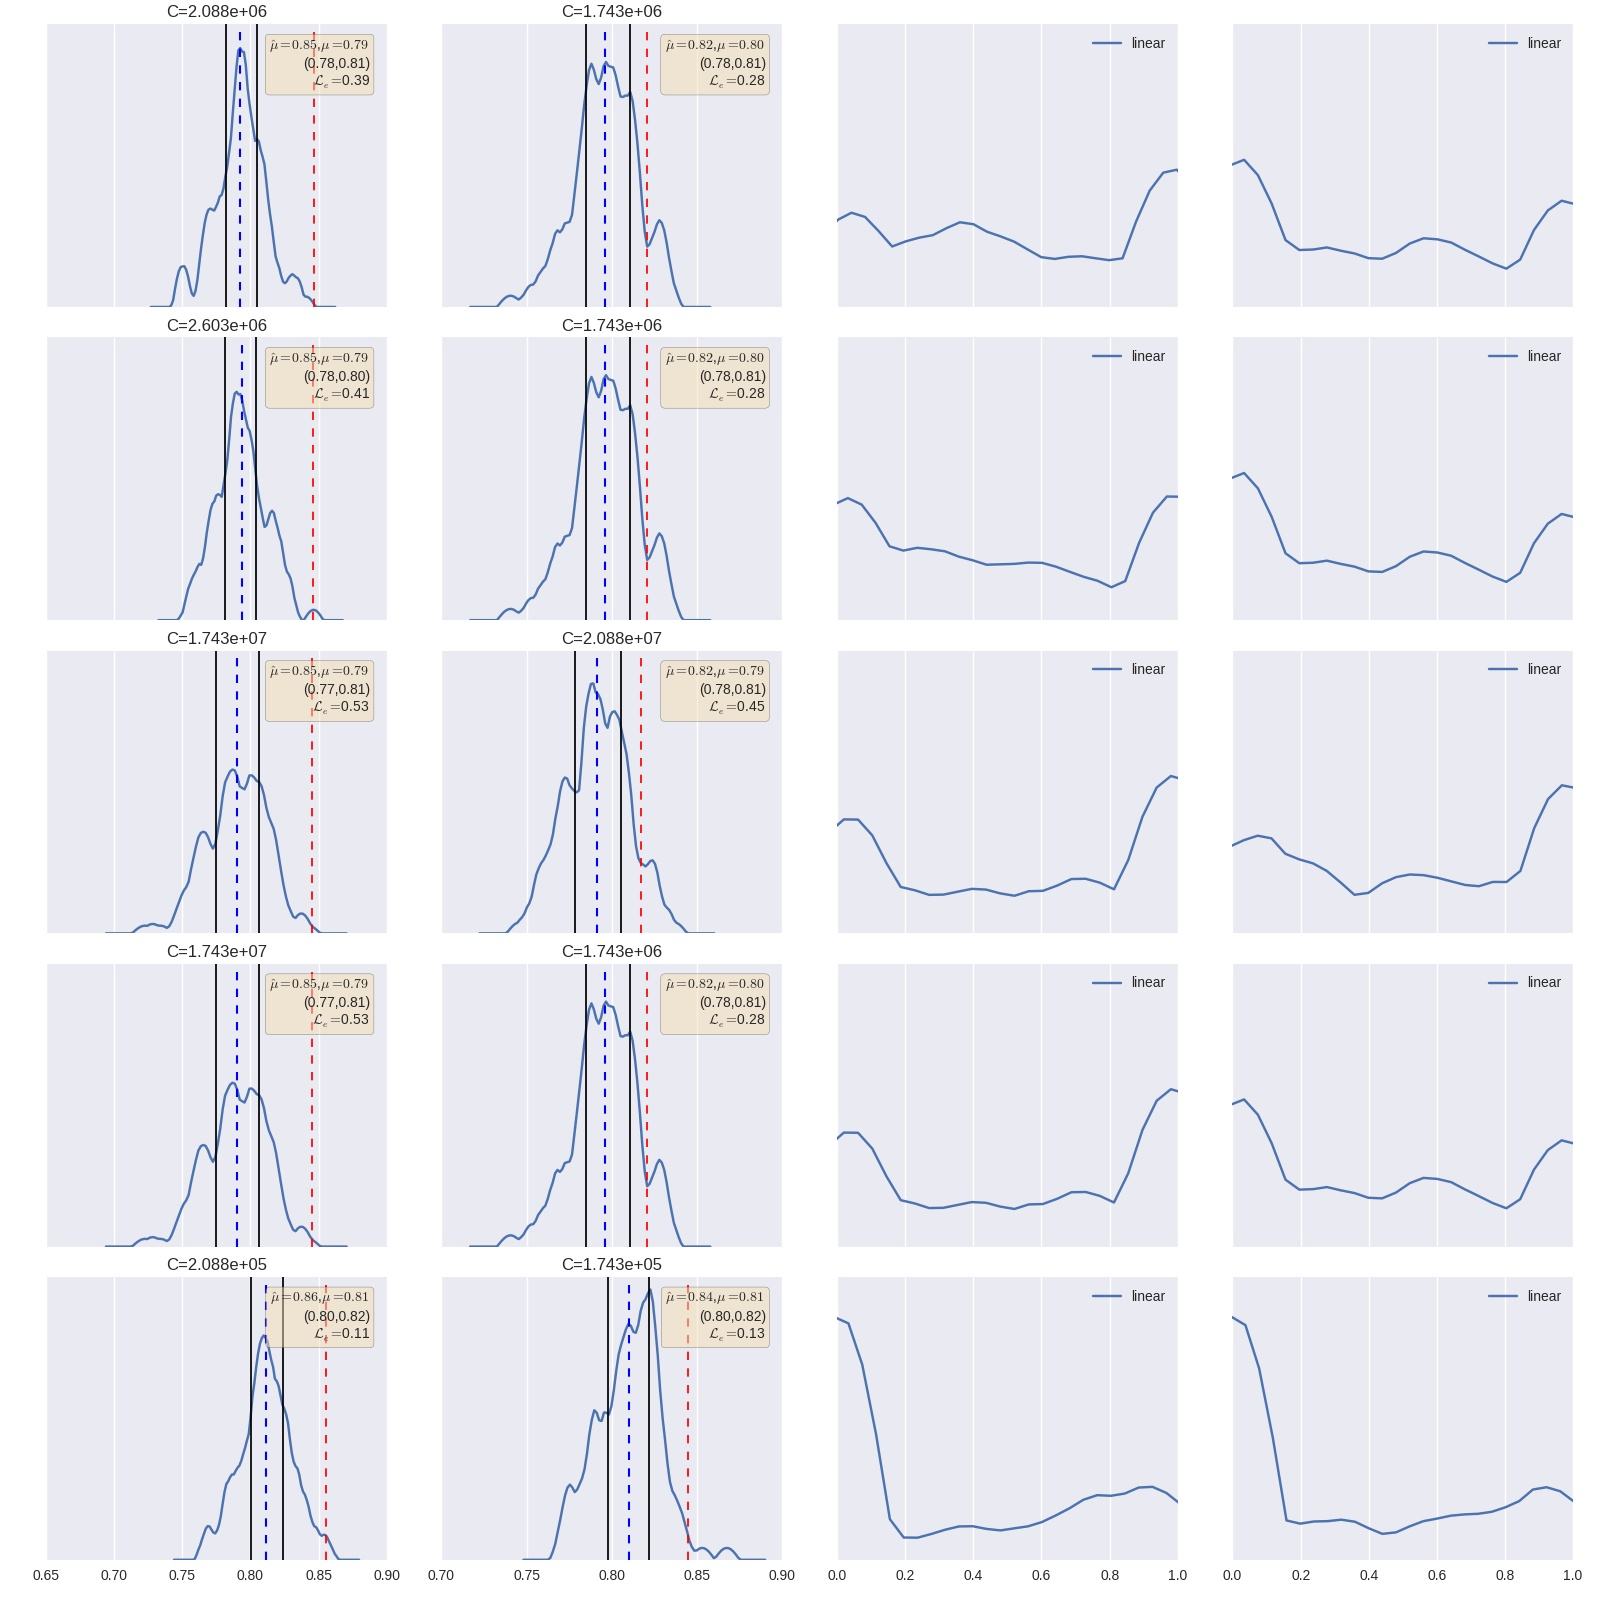
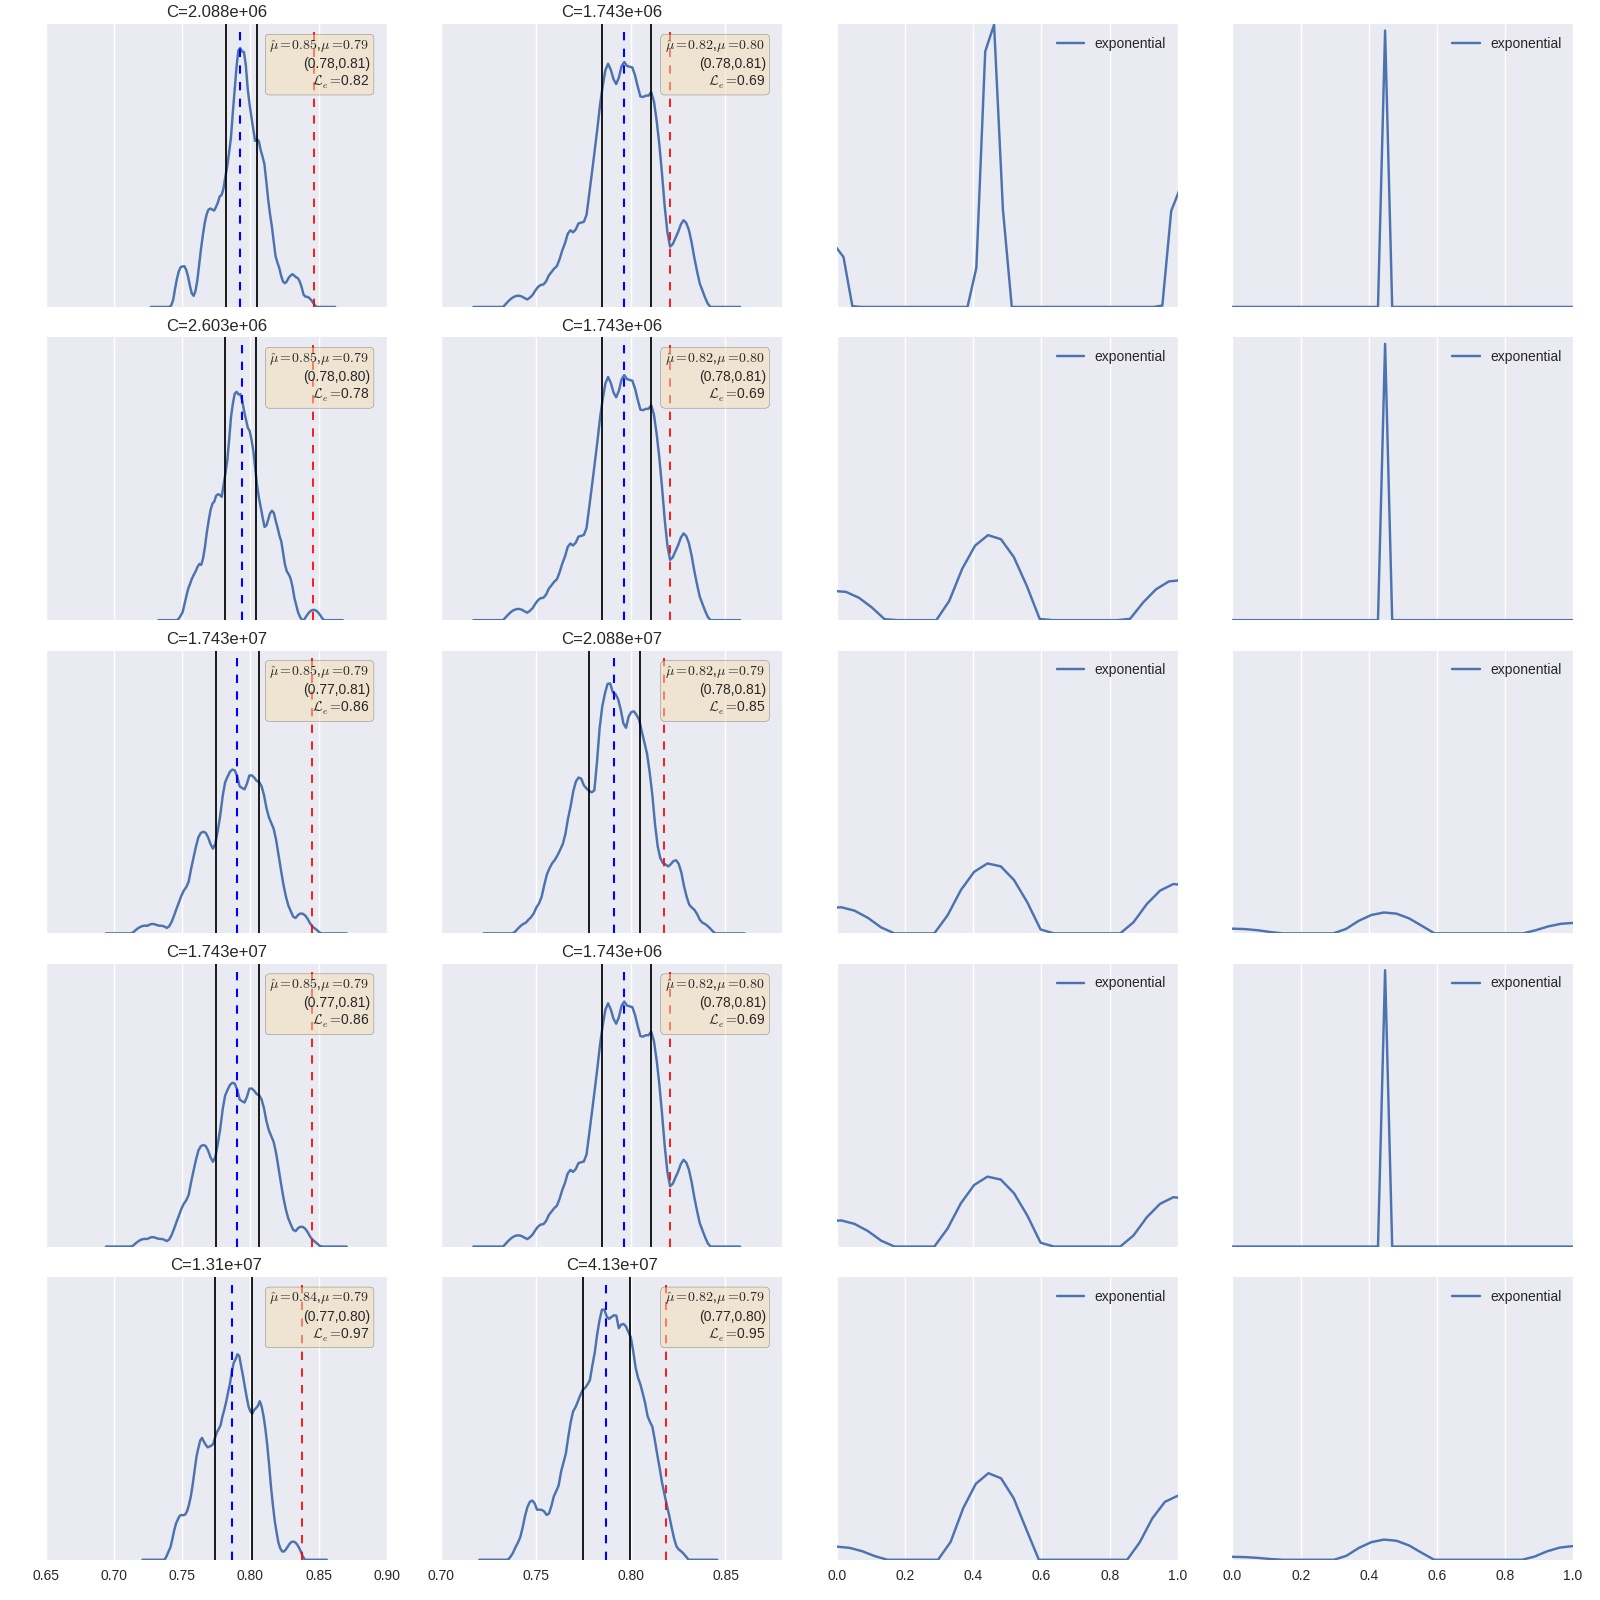
one more graph

diff --git a/src/results/pairs_2.py b/src/results/pairs_2.py
@@ -145,11 +145,11 @@ def get_pairs(Measure):  # Cost type is still needed for all
     pairs = []
     for measure_1 in Measure:
         mean_1 =  float('%.2f'% measure_1[1])
-        exp_1 = float('%.2f'% measure_1[4])
+        exp_1 = float('%.2f'% measure_1[2])
         for measure_2 in Measure:
             if measure_1 != measure_2:
                 mean_2 =  float('%.2f'% measure_2[1])
-                exp_2 = float('%.2f' % measure_2[4])
+                exp_2 = float('%.2f' % measure_2[2])
                 if (mean_1 > mean_2) and (exp_1 > exp_2):
                     # print "%3.4g" % measure_1[0], "%3.4g" % measure_2[0]
                     #print exp_1,exp_2
@@ -207,9 +207,9 @@ def plot(pairs, Measures, Costs, num,loss_type,max_cost):
         sns.kdeplot(first_measure, kernel='cos', ax=axf[n][0])
         sns.kdeplot(second_measure, kernel='cos', ax=axf[n][1])
         sns.kdeplot(
-            first_cost[:,2], gridsize=50, kernel='cos', ax=axf[n][2],label="linear")
+            first_cost[:,0], gridsize=50, kernel='cos', ax=axf[n][2],label="exponential")
         sns.kdeplot(
-            second_cost[:,2], gridsize=50, kernel='cos', ax=axf[n][3],label="linear")
+            second_cost[:,0], gridsize=50, kernel='cos', ax=axf[n][3],label="exponential")
         axf[n][
             0].axvline(np.mean(first_measure), ls="--", linewidth=1.5)
         axf[n][
@@ -231,13 +231,13 @@ def plot(pairs, Measures, Costs, num,loss_type,max_cost):
         axf[n][1].set_title(
             "C=" + C_2)
         text = '$\hat{\mu}=%.2f$,$\mu=%.2f$\n(%.2f,%.2f)\n $\ \mathcal{L}_{e}=$%.2f' % (cv_first[num],
-                float(np.mean(first_measure)), lower_percentile_first, upper_percentile_first, np.sum(first_cost[:,1]/max_cost[num][2]))
+                float(np.mean(first_measure)), lower_percentile_first, upper_percentile_first, np.sum(first_cost[:,0]/max_cost[num][0]))
         props = dict(
                 boxstyle='round', facecolor='wheat', alpha=0.5)
         axf[n][0].text(0.95, 0.95, text, transform=axf[n][0].transAxes, fontsize=10,
                                verticalalignment='top', horizontalalignment='right', bbox=props)
         text = '$\hat{\mu}=%.2f$,$\mu=%.2f$\n(%.2f,%.2f)\n $\ \mathcal{L}_{e}=$%.2f' % (cv_second[num],
-                float(np.mean(second_measure)), lower_percentile_second, upper_percentile_second, np.sum(second_cost[:,1]/max_cost[num][2])) 
+                float(np.mean(second_measure)), lower_percentile_second, upper_percentile_second, np.sum(second_cost[:,0]/max_cost[num][0])) 
         props = dict(
                 boxstyle='round', facecolor='wheat', alpha=0.5)
         axf[n][1].text(0.95, 0.95, text, transform=axf[n][1].transAxes, fontsize=10,
